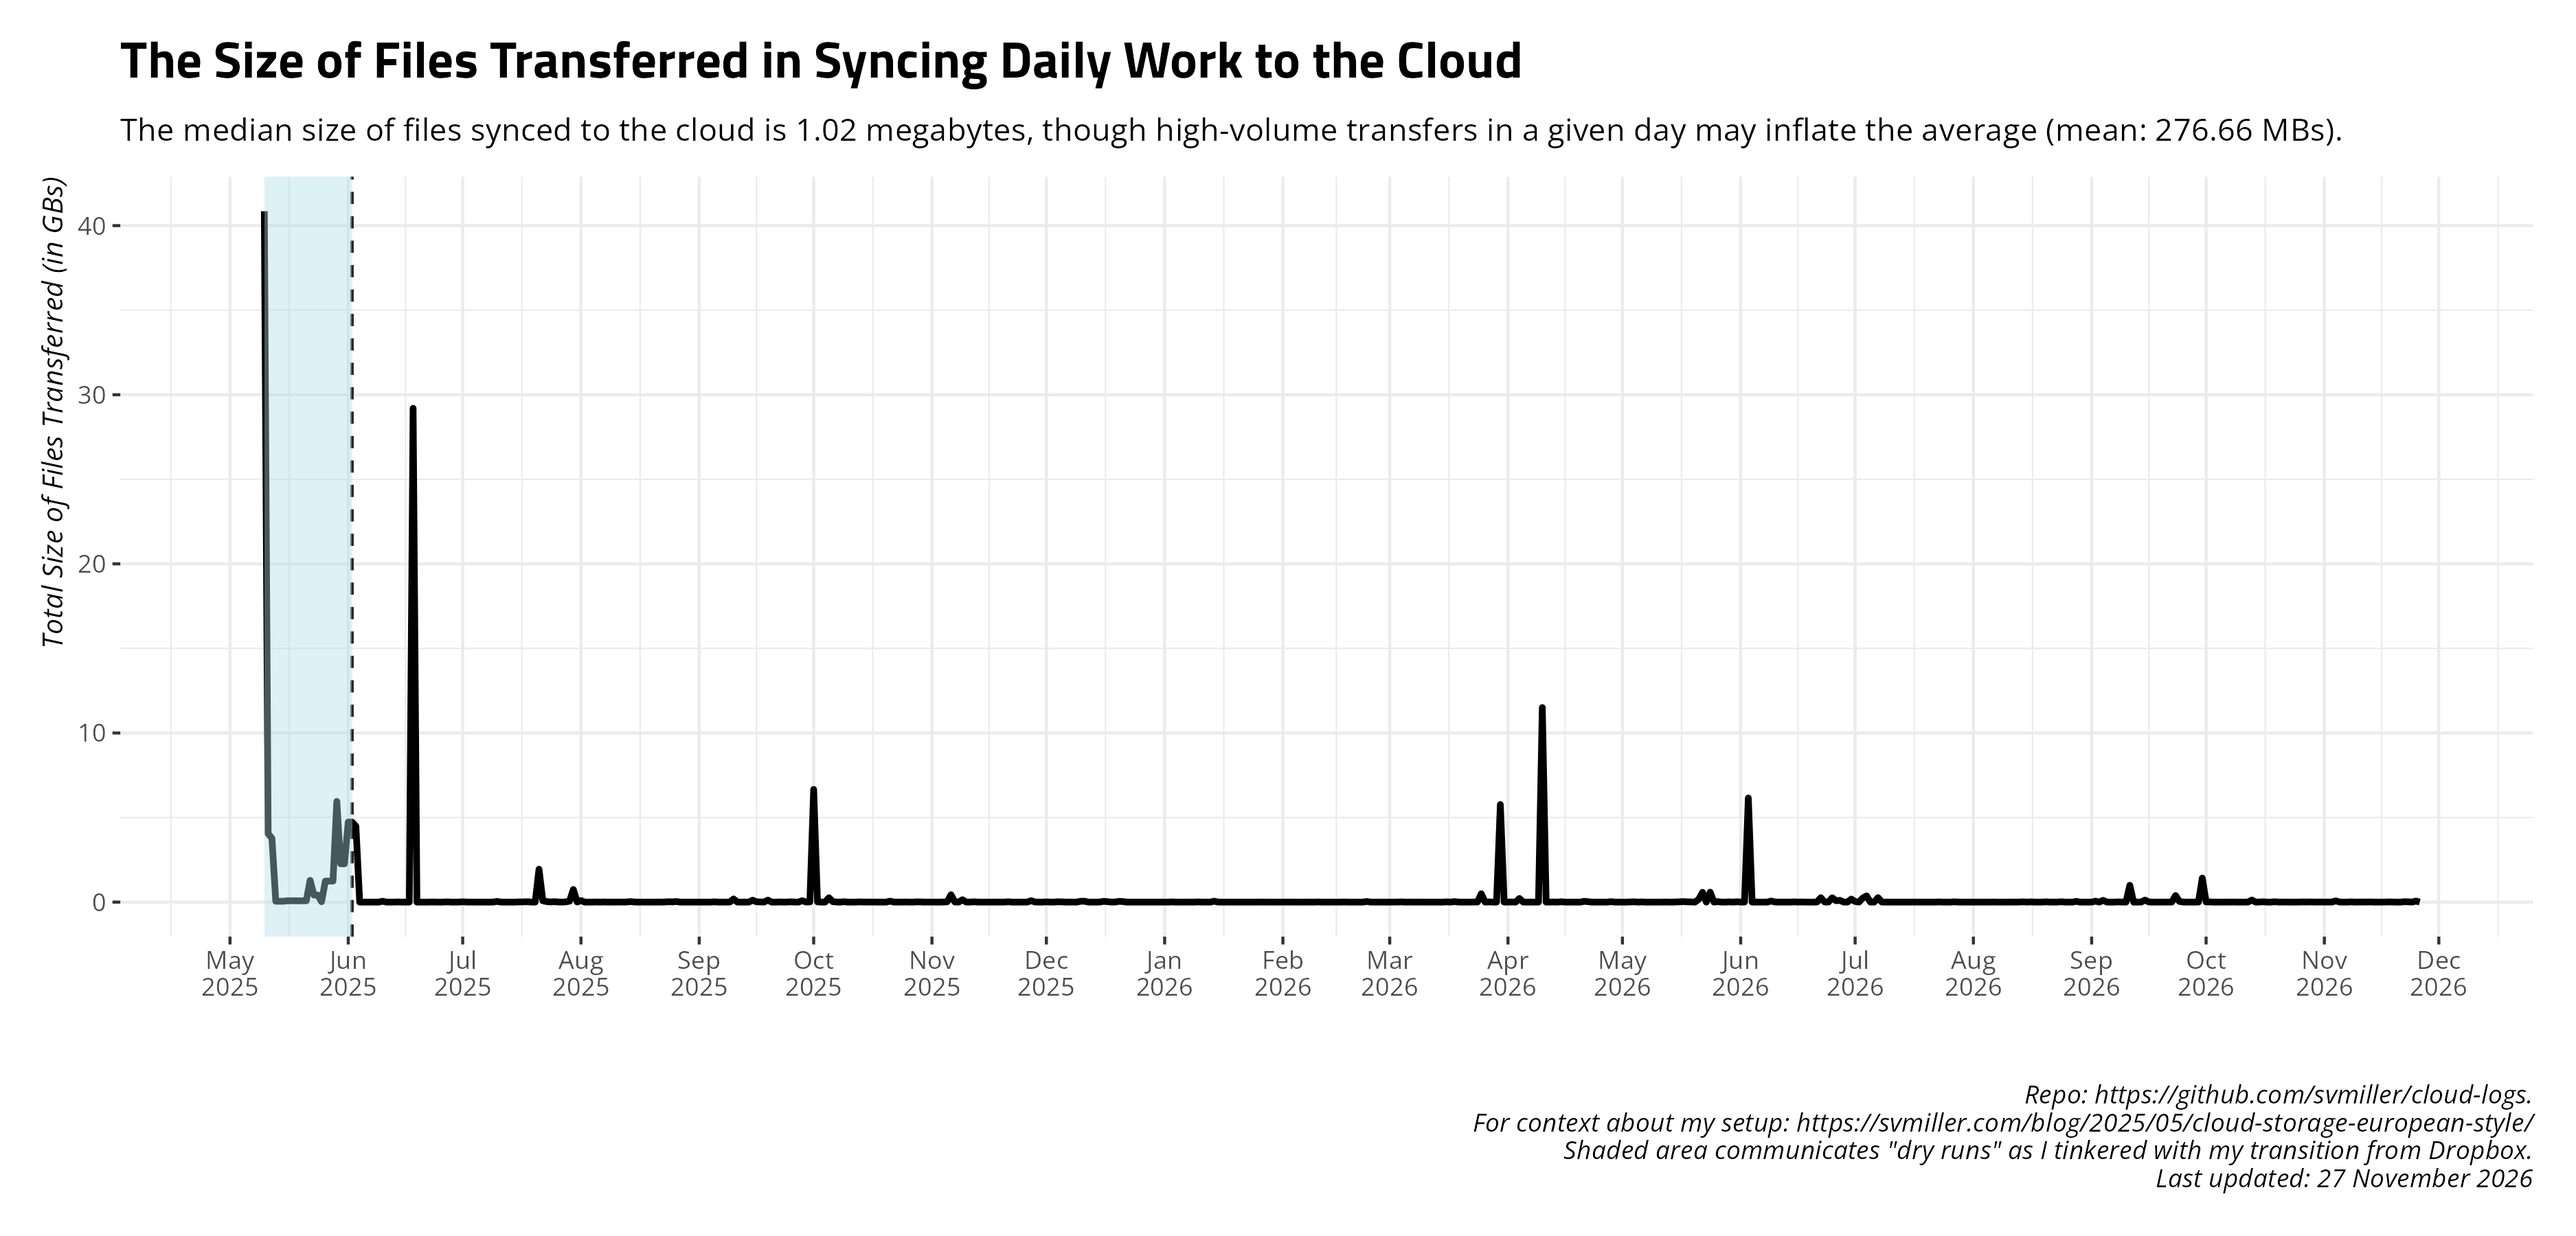
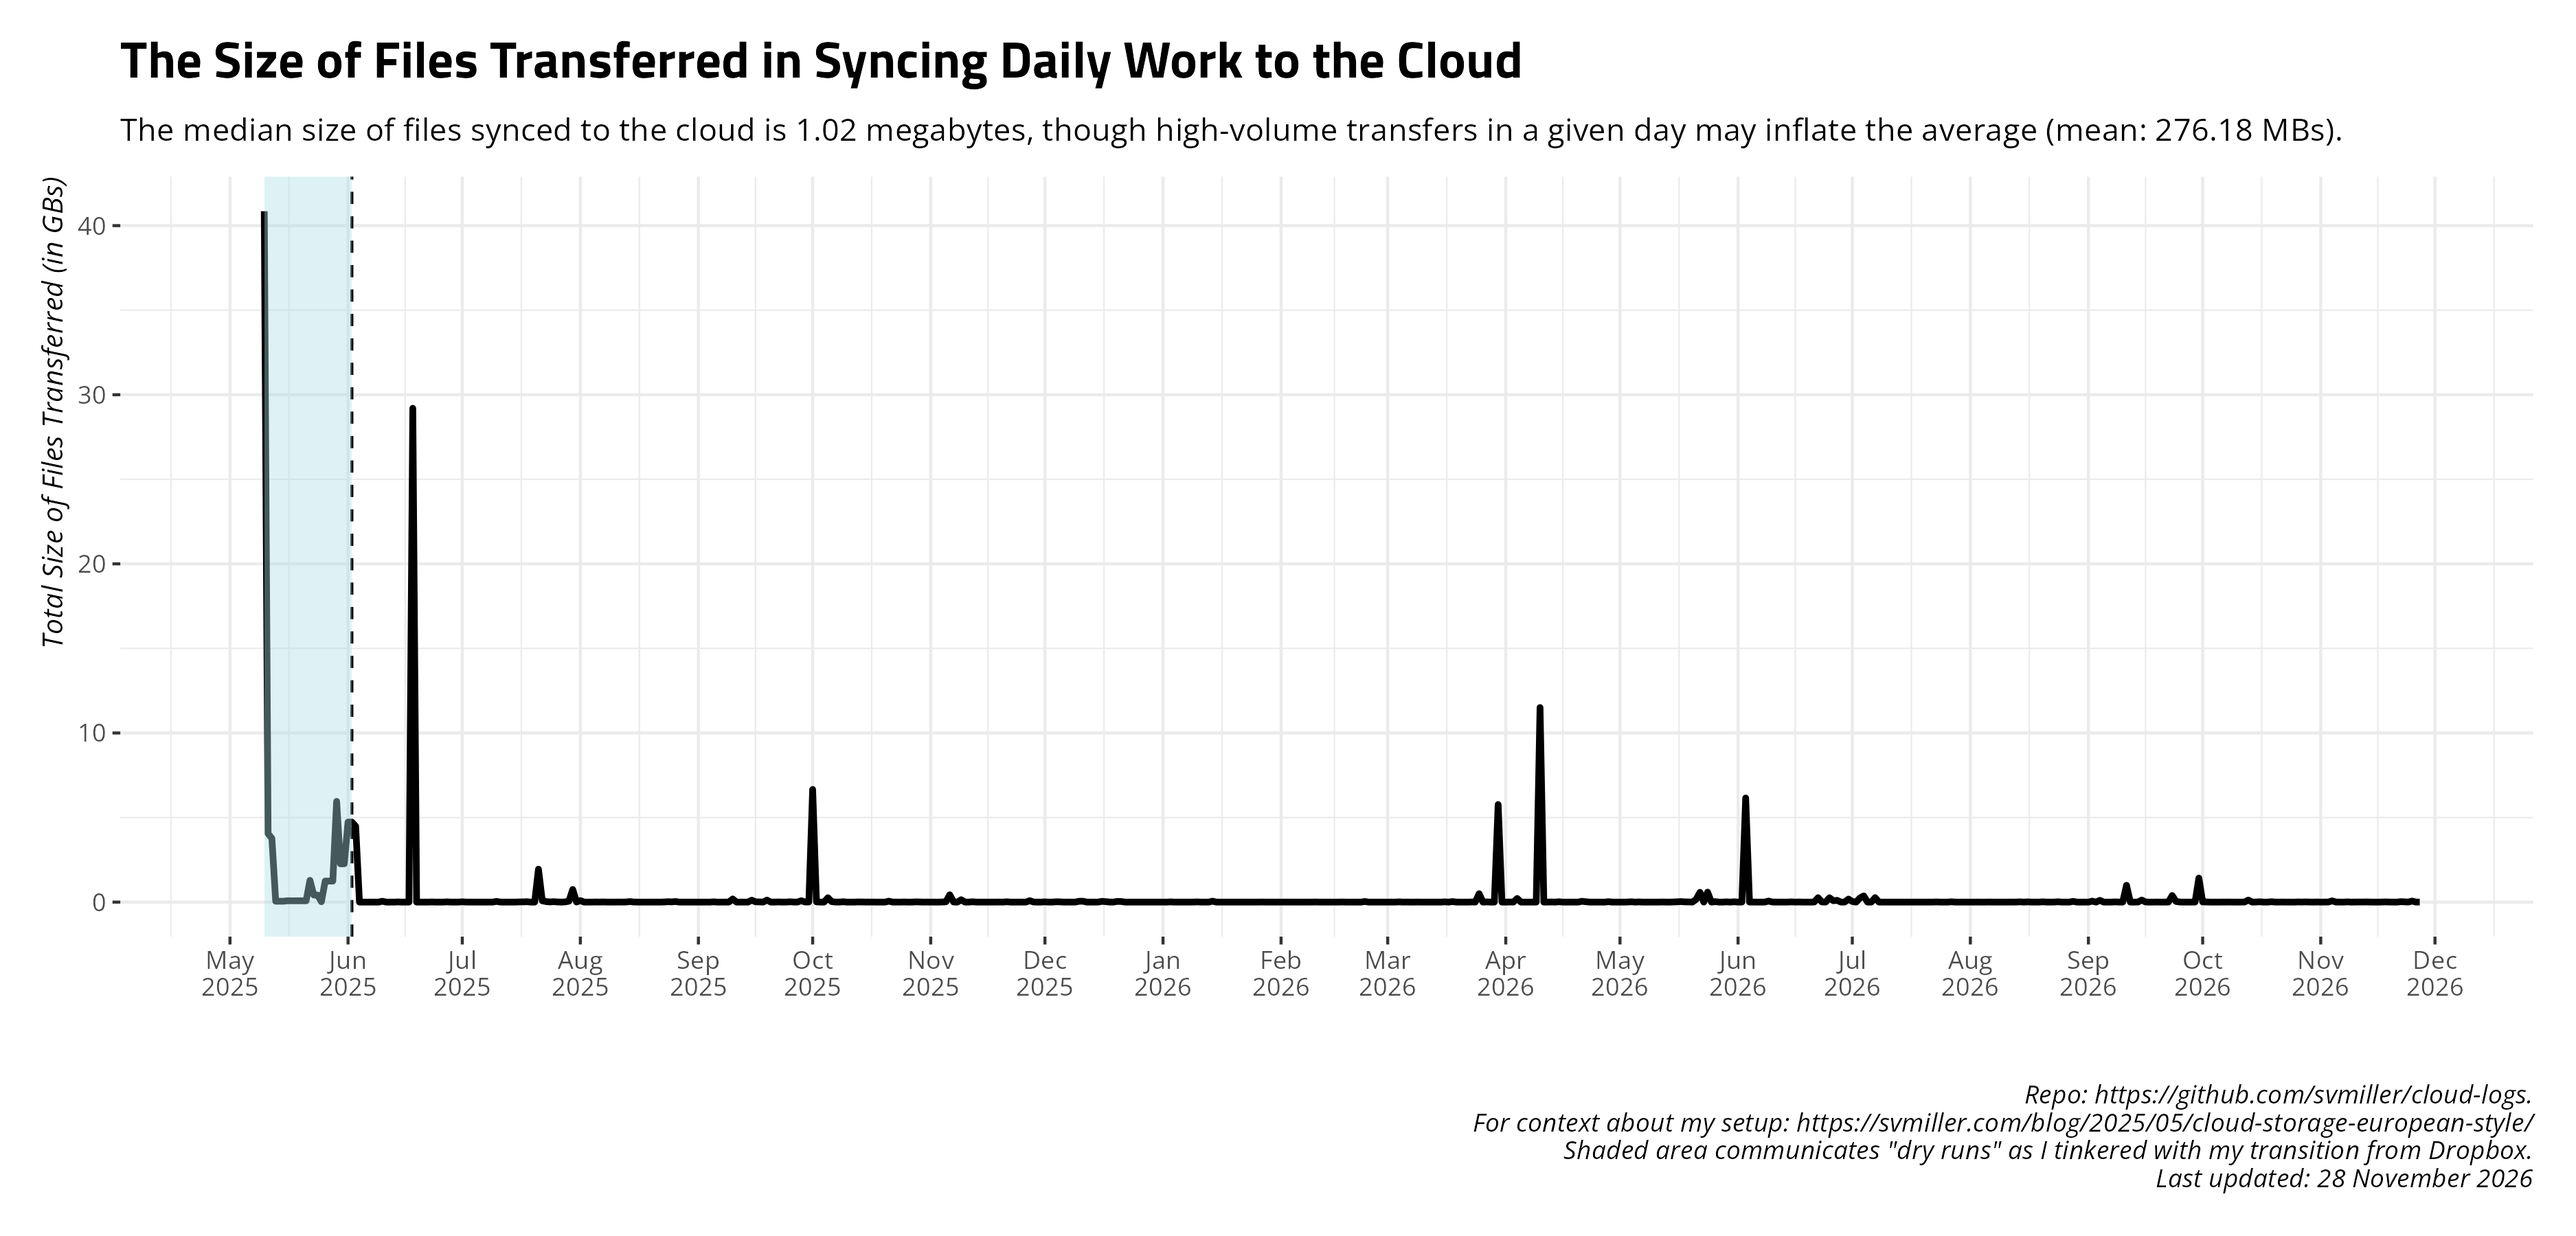
Date: 2026-11-28 09:00:39. Hi mom!

diff --git a/README.md b/README.md
@@ -27,17 +27,17 @@ and uploads to Github.
     #> # A tibble: 14 × 4
     #>    date       ftransfer stransfer   elapsed 
     #>    <date>         <dbl> <chr>       <chr>   
-    #>  1 2026-11-13       335 8.642 MiB   4m40.1s 
-    #>  2 2026-11-14       185 2.590 MiB   4m58.3s 
-    #>  3 2026-11-15        14 25.928 KiB  4m33.2s 
-    #>  4 2026-11-16        38 374.343 KiB 4m45.9s 
-    #>  5 2026-11-17       412 4.001 MiB   4m51.4s 
-    #>  6 2026-11-18       206 11.101 MiB  4m39.7s 
-    #>  7 2026-11-19       251 4.316 MiB   6m50.2s 
-    #>  8 2026-11-20        68 647.770 KiB 4m56.4s 
-    #>  9 2026-11-21        29 148.928 KiB 4m51.8s 
-    #> 10 2026-11-22       464 23.982 MiB  17m11.2s
-    #> 11 2026-11-23        54 15.587 MiB  7m14.9s 
-    #> 12 2026-11-24        39 2.226 MiB   4m32.5s 
-    #> 13 2026-11-25        60 61.733 MiB  4m52.7s 
-    #> 14 2026-11-26        57 2.324 MiB   4m44.2s
+    #>  1 2026-11-14       185 2.590 MiB   4m58.3s 
+    #>  2 2026-11-15        14 25.928 KiB  4m33.2s 
+    #>  3 2026-11-16        38 374.343 KiB 4m45.9s 
+    #>  4 2026-11-17       412 4.001 MiB   4m51.4s 
+    #>  5 2026-11-18       206 11.101 MiB  4m39.7s 
+    #>  6 2026-11-19       251 4.316 MiB   6m50.2s 
+    #>  7 2026-11-20        68 647.770 KiB 4m56.4s 
+    #>  8 2026-11-21        29 148.928 KiB 4m51.8s 
+    #>  9 2026-11-22       464 23.982 MiB  17m11.2s
+    #> 10 2026-11-23        54 15.587 MiB  7m14.9s 
+    #> 11 2026-11-24        39 2.226 MiB   4m32.5s 
+    #> 12 2026-11-25        60 61.733 MiB  4m52.7s 
+    #> 13 2026-11-26        57 2.324 MiB   4m44.2s 
+    #> 14 2026-11-27        32 1.015 MiB   4m29.3s
